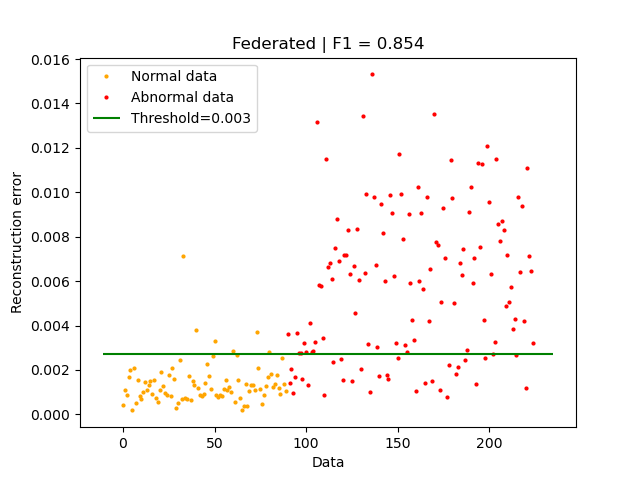
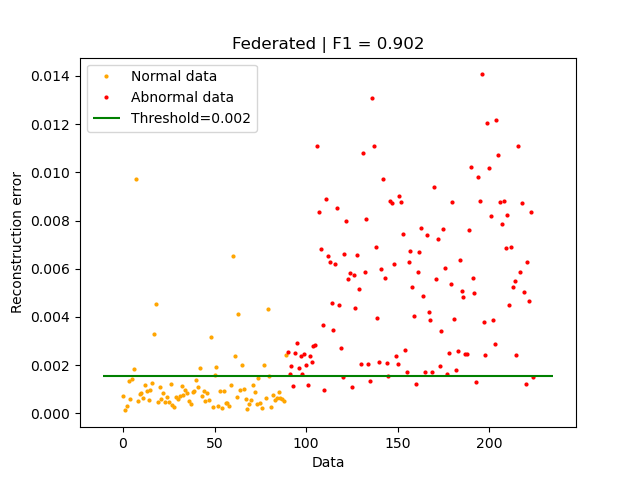
nits

diff --git a/AE/provIoT.py b/AE/provIoT.py
@@ -22,10 +22,10 @@ def main():
     log.info(f"DEBUG: PID: {os.getpid()}")
     log.info(f"DEBUG: DIRECTORY: {str('/'.join(os.listdir()))}")
 
-    epoch = 50
+    epoch = 100
     num_clients = 10
     comm_round = 5
-    percentile = 0.90
+    percentile = 0.85
 
     autoencoder = AutoencoderFed(benign, anomaly, log, epoch, num_clients, comm_round, percentile)
     autoencoder.run()
